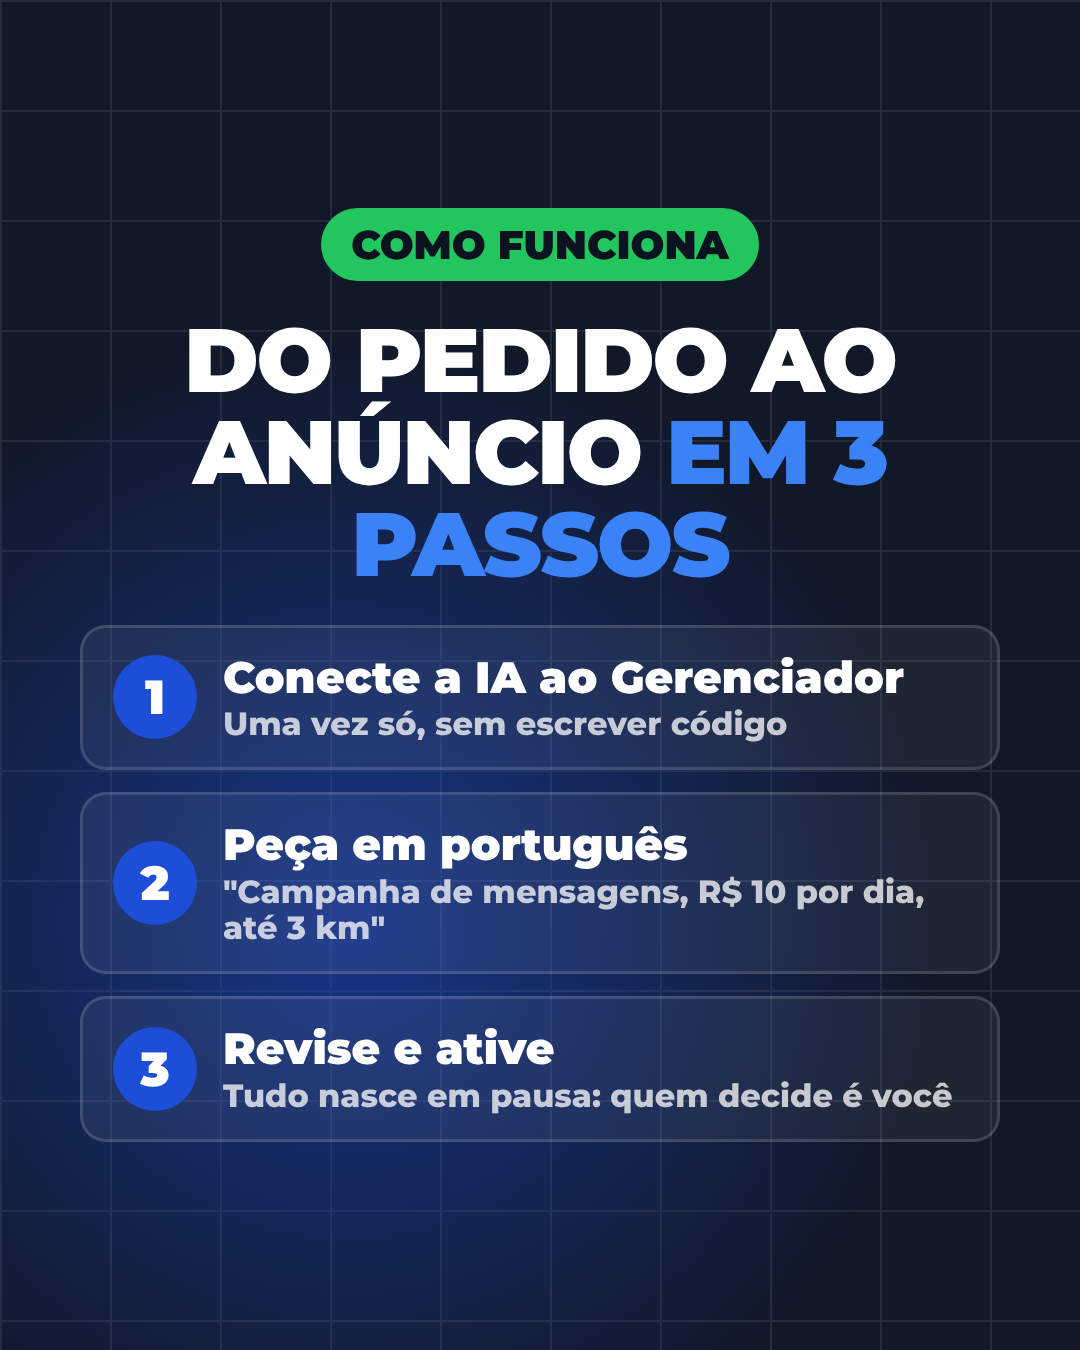
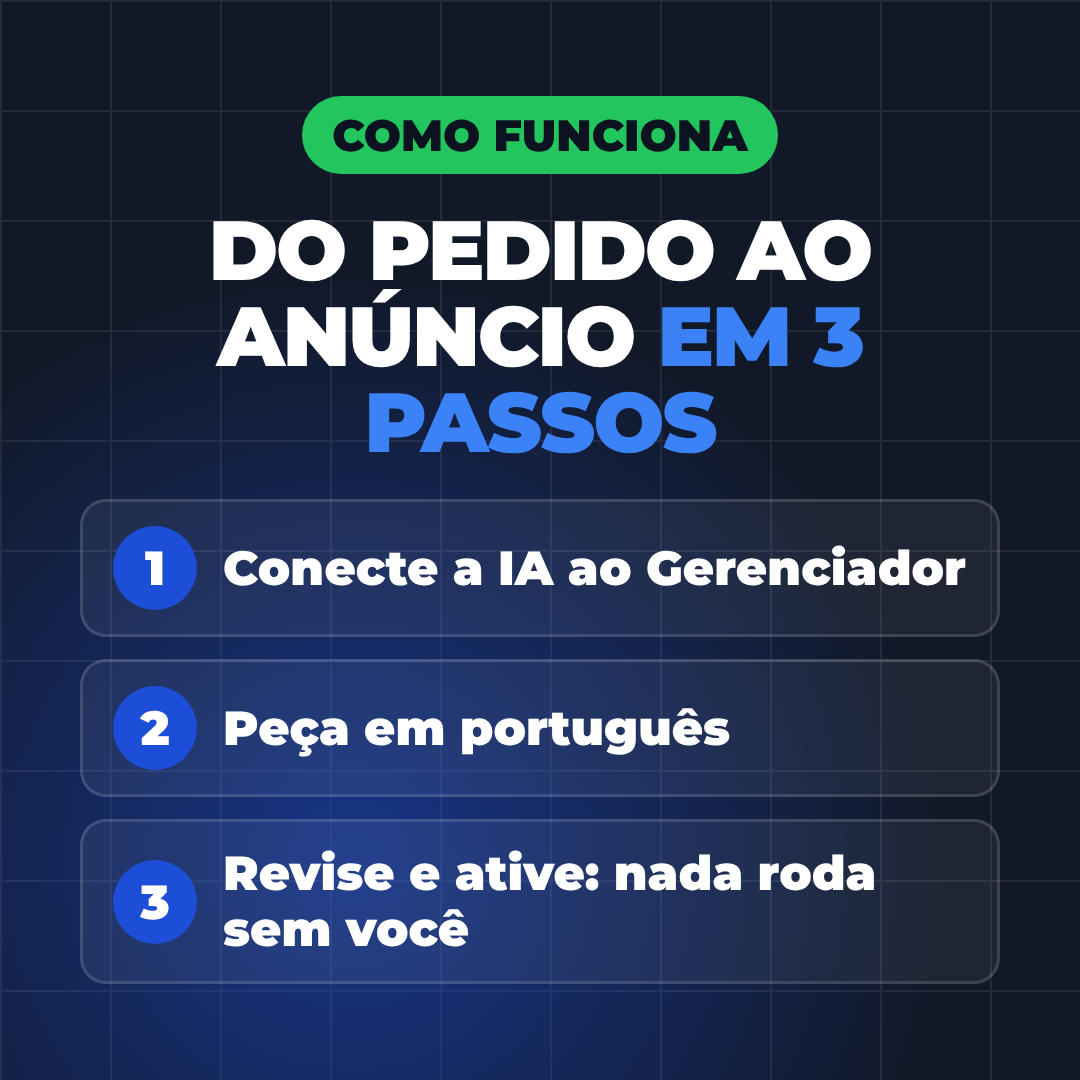
trafegocomia: checkout Kiwify legivel no computador e no celular
Medido no runner: checkout de 984 px, coluna principal ~670, lateral ~284.
Imagens refeitas com texto minimo de ~16 px na menor tela; cabecalho sem
repetir a frase principal; formulario aparece sem rolar nos dois aparelhos.
Coluna lateral so com componente de texto nativo. Simulacao incluida.

Claude-Session: https://claude.ai/code/session_01KYYUADddf4cwfYYnfA1fax

Changed region(s): [[0.0306, 0.5806, 0.9167, 1.0], [0.1528, 0.0917, 0.825, 0.4278], [0.0611, 0.4583, 0.8861, 0.6111]]

diff --git a/trafegocomia/checkout/gera.js b/trafegocomia/checkout/gera.js
@@ -7,34 +7,37 @@ const { chromium } = require('playwright');
 const out = path.resolve(process.argv[2]); fs.mkdirSync(out, { recursive: true });
 const F = process.env.FONTES_DIR;
 const top = `<div class="top"><span class="brand">📢 IA</span><span class="handle">@trafegocom.ia</span></div>`;
+// Medido no runner (trafegocomia/pesquisa/lps/desktop/medidas.json): no computador o checkout tem 984 px;
+// o cabecalho ocupa 984, a coluna principal ~670 e a lateral ~284. No celular tudo vira ~390.
+// Regra: nenhum texto abaixo de ~15 px na tela MENOR em que a imagem aparece.
+//  - imagens 1080 de largura: menor texto 44 px (celular 390/1080 -> 15,9 px; computador 670/1080 -> 27 px)
+//  - cabecalho 2000x590: menor texto 80 px (celular 390/2000 -> 15,6 px; computador 984/2000 -> 39 px)
+//  - coluna lateral (284 px): NAO usar imagem com texto; usar componente de texto nativo da Kiwify.
 const B = [
-  ['01-topo-celular', 1080, 1350, '96px', `${top}<span class="tag">CLUBE TRÁFEGO COM IA</span>
+  ['01-topo', 1080, 756, '74px', `<span class="tag" style="font-size:44px">PRA DONO DE NEGÓCIO</span>
     <h1>Anúncios com IA que levam <span class="k">cliente pro seu WhatsApp</span></h1>
-    <div class="card">
-      <div class="it"><span class="ck">✓</span>Pra dono de negócio, sem agência</div>
-      <div class="it"><span class="ck">✓</span>Você pede, a IA monta, você revisa</div>
-      <div class="it"><span class="ck">✓</span>Cancele quando quiser</div></div>
-    <span class="seta">↓ Preencha abaixo e entre agora</span>`],
-  ['02-banner-desktop', 2000, 590, '92px', `<div class="row"><div>${top}<h1 style="margin-top:24px">Anúncios com IA que levam <span class="k">cliente pro WhatsApp</span></h1></div>
-    <div style="text-align:center;flex:0 0 560px"><div class="price" style="font-size:44px">Clube por</div><div style="color:#fff;font-weight:900;font-size:120px;line-height:1;white-space:nowrap">R$ 29,90</div><div class="price" style="font-size:38px;white-space:nowrap">por mês</div><div class="price" style="font-size:34px;white-space:nowrap">cancele quando quiser</div></div></div>`],
-  ['03-como-funciona', 1080, 1350, '90px', `<span class="tag">COMO FUNCIONA</span>
+    <div style="color:#fff;font-weight:900;font-size:46px;line-height:1.25">Você pede, a IA monta,<br>você revisa e ativa.</div>
+    <span class="seta" style="font-size:46px">↓ Preencha abaixo e entre agora</span>`],
+  ['02-cabecalho', 2000, 590, '120px', `<div class="row" style="gap:90px;width:100%;justify-content:space-between"><div style="text-align:left">${top.replace('class="top"','class="top" style="transform:scale(2.2);transform-origin:left center;margin-bottom:70px"')}<h1>Clube <span class="k">Tráfego com IA</span></h1></div>
+    <div style="text-align:center;flex:0 0 620px"><div style="color:#fff;font-weight:900;font-size:150px;line-height:1;white-space:nowrap">R$ 29,90</div><div style="color:#fff;font-weight:900;font-size:84px;white-space:nowrap">por mês</div></div></div>`],
+  ['03-como-funciona', 1080, 1080, '84px', `<span class="tag" style="font-size:44px">COMO FUNCIONA</span>
     <h1>Do pedido ao anúncio <span class="k">em 3 passos</span></h1>
     <div class="pasos">
-      <div class="ps"><span class="n">1</span><span class="t">Conecte a IA ao Gerenciador<small>Uma vez só, sem escrever código</small></span></div>
-      <div class="ps"><span class="n">2</span><span class="t">Peça em português<small>"Campanha de mensagens, R$ 10 por dia, até 3 km"</small></span></div>
-      <div class="ps"><span class="n">3</span><span class="t">Revise e ative<small>Tudo nasce em pausa: quem decide é você</small></span></div></div>`],
+      <div class="ps"><span class="n">1</span><span class="t" style="font-size:48px">Conecte a IA ao Gerenciador</span></div>
+      <div class="ps"><span class="n">2</span><span class="t" style="font-size:48px">Peça em português</span></div>
+      <div class="ps"><span class="n">3</span><span class="t" style="font-size:48px">Revise e ative: nada roda sem você</span></div></div>`],
   ['04-preco', 1080, 1080, '86px', `<h1>Menos que a <span class="k">Netflix</span></h1>
     <div class="barras">
-      <div class="br"><div class="r">Netflix, plano Padrão</div><div class="tr"><div class="f" style="width:100%;background:#3f3f46">R$ 51,90</div></div></div>
-      <div class="br"><div class="r">Clube Tráfego com IA</div><div class="tr"><div class="f" style="width:58%;background:#1D4ED8">R$ 29,90</div></div></div></div>
+      <div class="br"><div class="r" style="font-size:46px">Netflix Padrão</div><div class="tr"><div class="f" style="width:100%;background:#3f3f46">R$ 51,90</div></div></div>
+      <div class="br"><div class="r" style="font-size:46px">Clube Tráfego com IA</div><div class="tr"><div class="f" style="width:58%;background:#1D4ED8">R$ 29,90</div></div></div></div>
     <div class="sub">Uma você assiste. A outra te ensina a vender.</div>
-    <div class="price" style="font-size:26px;opacity:.6">Netflix Padrão sem anúncios, preço de out/2026</div>`],
+    <div class="price" style="font-size:40px;opacity:.7">Netflix Padrão sem anúncios, out/2026</div>`],
   ['05-garantia', 1080, 1080, '96px', `<span class="emoji">🛡</span>
     <h1>7 dias pra <span class="k">testar</span></h1>
-    <div class="sub">Entrou e não é pra você? Peça o reembolso em até 7 dias e recebe tudo de volta. Depois, cancela quando quiser, sem multa.</div>`],
-  ['06-exit-popup', 1080, 1080, '104px', `<span class="tag">ESPERA</span>
+    <div class="sub">Não é pra você? Reembolso em até 7 dias. Depois, cancela quando quiser, sem multa.</div>`],
+  ['06-exit-popup', 1080, 1080, '104px', `<span class="tag" style="font-size:44px">ESPERA</span>
     <h1>É <span class="k">menos de R$ 1</span> por dia</h1>
-    <div class="sub">R$ 29,90 por mês pra aprender a anunciar com IA. E dá pra cancelar quando quiser.</div>
+    <div class="sub">R$ 29,90 por mês pra aprender a anunciar com IA. Cancele quando quiser.</div>
     <span class="cta">Quero entrar →</span>`],
 ];
 (async () => {

diff --git a/trafegocomia/checkout/simula.js b/trafegocomia/checkout/simula.js
@@ -1,0 +1,26 @@
+// Monta o checkout com as larguras MEDIDAS da Kiwify e tira print no computador e no celular.
+const path = require('path'), fs = require('fs'); const { chromium } = require('playwright');
+const D = path.resolve(process.argv[2]); const OUT = path.resolve(process.argv[3]);
+const u = f => 'file://' + path.join(D, f);
+const campos = n => Array.from({ length: n }, (_, i) => `<div class="in">${['Nome', 'E-mail', 'Telefone', 'CPF'][i]}</div>`).join('');
+const lado = `<div class="lado"><div class="bx">✓ Acesso imediato após o pagamento</div><div class="bx">✓ Pix ou cartão</div><div class="bx">✓ 7 dias de garantia</div><div class="bx">✓ Cancele quando quiser</div></div>`;
+const html = movel => `<html><body style="margin:0;background:#0b0f19;font-family:sans-serif">
+<style>.c{width:${movel ? 'auto' : '984px'};margin:0 auto;padding:${movel ? '0' : '16px 0'}} img{display:block;width:100%}
+.g{display:flex;gap:22px;margin-top:16px;${movel ? 'flex-direction:column;gap:0' : ''}} .m{flex:0 0 ${movel ? 'auto' : '672px'}} .lado{flex:1;${movel ? 'padding:12px' : ''}}
+.f{background:#fff;border-radius:8px;padding:${movel ? '14px' : '24px'};margin-top:${movel ? 0 : 16}px} .in{border:1px solid #ccc;border-radius:6px;padding:14px;margin:0 0 12px;color:#888;font-size:16px}
+.bt{background:#22c55e;color:#fff;text-align:center;font-weight:bold;padding:16px;border-radius:6px;font-size:18px}
+.bx{background:#fff;border:2px solid #1d4ed8;border-radius:8px;padding:16px;margin-bottom:14px;font-weight:bold;font-size:16px;color:#111}</style>
+<div class="c"><img src="${u('02-cabecalho.png')}"><div class="g"><div class="m"><img src="${u('01-topo.png')}">
+<div class="f">${campos(3)}<div class="bt">Pagar agora · R$ 29,90/mês</div></div>
+<img src="${u('03-como-funciona.png')}" style="margin-top:16px"><img src="${u('04-preco.png')}" style="margin-top:16px"><img src="${u('05-garantia.png')}" style="margin-top:16px"></div>${lado}</div></div></body></html>`;
+(async () => {
+  const b = await chromium.launch();
+  for (const [nome, vp, mv] of [['computador-1440', { width: 1440, height: 900 }, false], ['celular-390', { width: 390, height: 844, deviceScaleFactor: 2 }, true]]) {
+    const t = path.join(OUT, '_sim.html'); fs.writeFileSync(t, html(mv));
+    const p = await b.newPage({ viewport: vp }); await p.goto('file://' + t); await p.waitForTimeout(500);
+    await p.screenshot({ path: path.join(OUT, `simulacao-${nome}.png`) });
+    await p.screenshot({ path: path.join(OUT, `simulacao-${nome}-inteira.png`), fullPage: true });
+    await p.close(); fs.unlinkSync(t);
+  }
+  await b.close();
+})();

diff --git a/saida/checkout-kiwify/ROTEIRO.md b/saida/checkout-kiwify/ROTEIRO.md
@@ -25,8 +25,8 @@ Anúncio → checkout da Kiwify → pago. Sem página no meio: um clique e um ca
 
 ## Montagem no editor (aba Checkout)
 Ordem de cima para baixo, **acima do formulário**:
-1. **Cabeçalho (desktop):** `02-banner-desktop.png` (2000x590).
-2. **Imagem:** `01-topo-celular.png` (1080x1350) — é o que o celular vê primeiro.
+1. **Cabeçalho:** `02-cabecalho.png` (2000x590).
+2. **Imagem (coluna principal):** `01-topo.png` (1080x756).
 3. **Texto curto** (abaixo):
 
    > **Para dono de negócio que quer anunciar sem depender de agência.**
@@ -34,7 +34,7 @@ Ordem de cima para baixo, **acima do formulário**:
 
 4. Formulário (o da Kiwify).
 
-Abaixo do formulário / coluna lateral:
+Abaixo do formulário, **na coluna principal** (nunca na lateral, ver tamanhos):
 5. **Imagem:** `03-como-funciona.png`
 6. **Texto — o que você recebe:** ⚠ **ESCREVA AQUI O QUE O CLUBE ENTREGA DE FATO** (aulas, prompts, encontros, comunidade, frequência). Eu não sei e não inventei.
 7. **Imagem:** `04-preco.png`
@@ -43,6 +43,22 @@ Abaixo do formulário / coluna lateral:
 10. **Exit popup** (Componentes extra → Exit pop-up): `06-exit-popup.png`.
 
 **Cronômetro:** não use. Ele reinicia a cada visita, a pessoa percebe, e a oferta não acaba de verdade. Escassez falsa custa confiança e pode virar reclamação.
+
+## Tamanhos — medidos no checkout real da Kiwify
+Medido no runner em 1280, 1440 e 1920 px (`trafegocomia/pesquisa/lps/desktop/medidas.json`): no computador o
+checkout tem **984 px**; o cabeçalho ocupa 984, a **coluna principal ~670** e a **lateral ~284**. No celular tudo ~390.
+
+| imagem | celular | computador | menor texto na tela |
+|---|---|---|---|
+| `02-cabecalho` 2000x590 | 390 × 115 | 984 × 290 | ~16 px no celular, ~40 px no computador |
+| `01-topo` e as de 1080 | 390 de largura | 670 de largura | ~16 px no celular, ~27 px no computador |
+| qualquer imagem de 1080 **na coluna lateral** | — | 284 de largura | **~11 px: ilegível** |
+
+**Coluna lateral: só componente de TEXTO da Kiwify**, nunca imagem com texto. Sugestão de 4 caixas:
+"✓ Acesso imediato após o pagamento", "✓ Pix ou cartão", "✓ 7 dias de garantia", "✓ Cancele quando quiser".
+
+Simulação com essas medidas: `simulacao-computador-1440.png` e `simulacao-celular-390.png`. Confira no
+botão de pré-visualização da própria Kiwify (computador e celular) antes de ligar o anúncio.
 
 ## Campos
 Deixe só o que a Kiwify exige. Cada campo a mais é gente que desiste.
